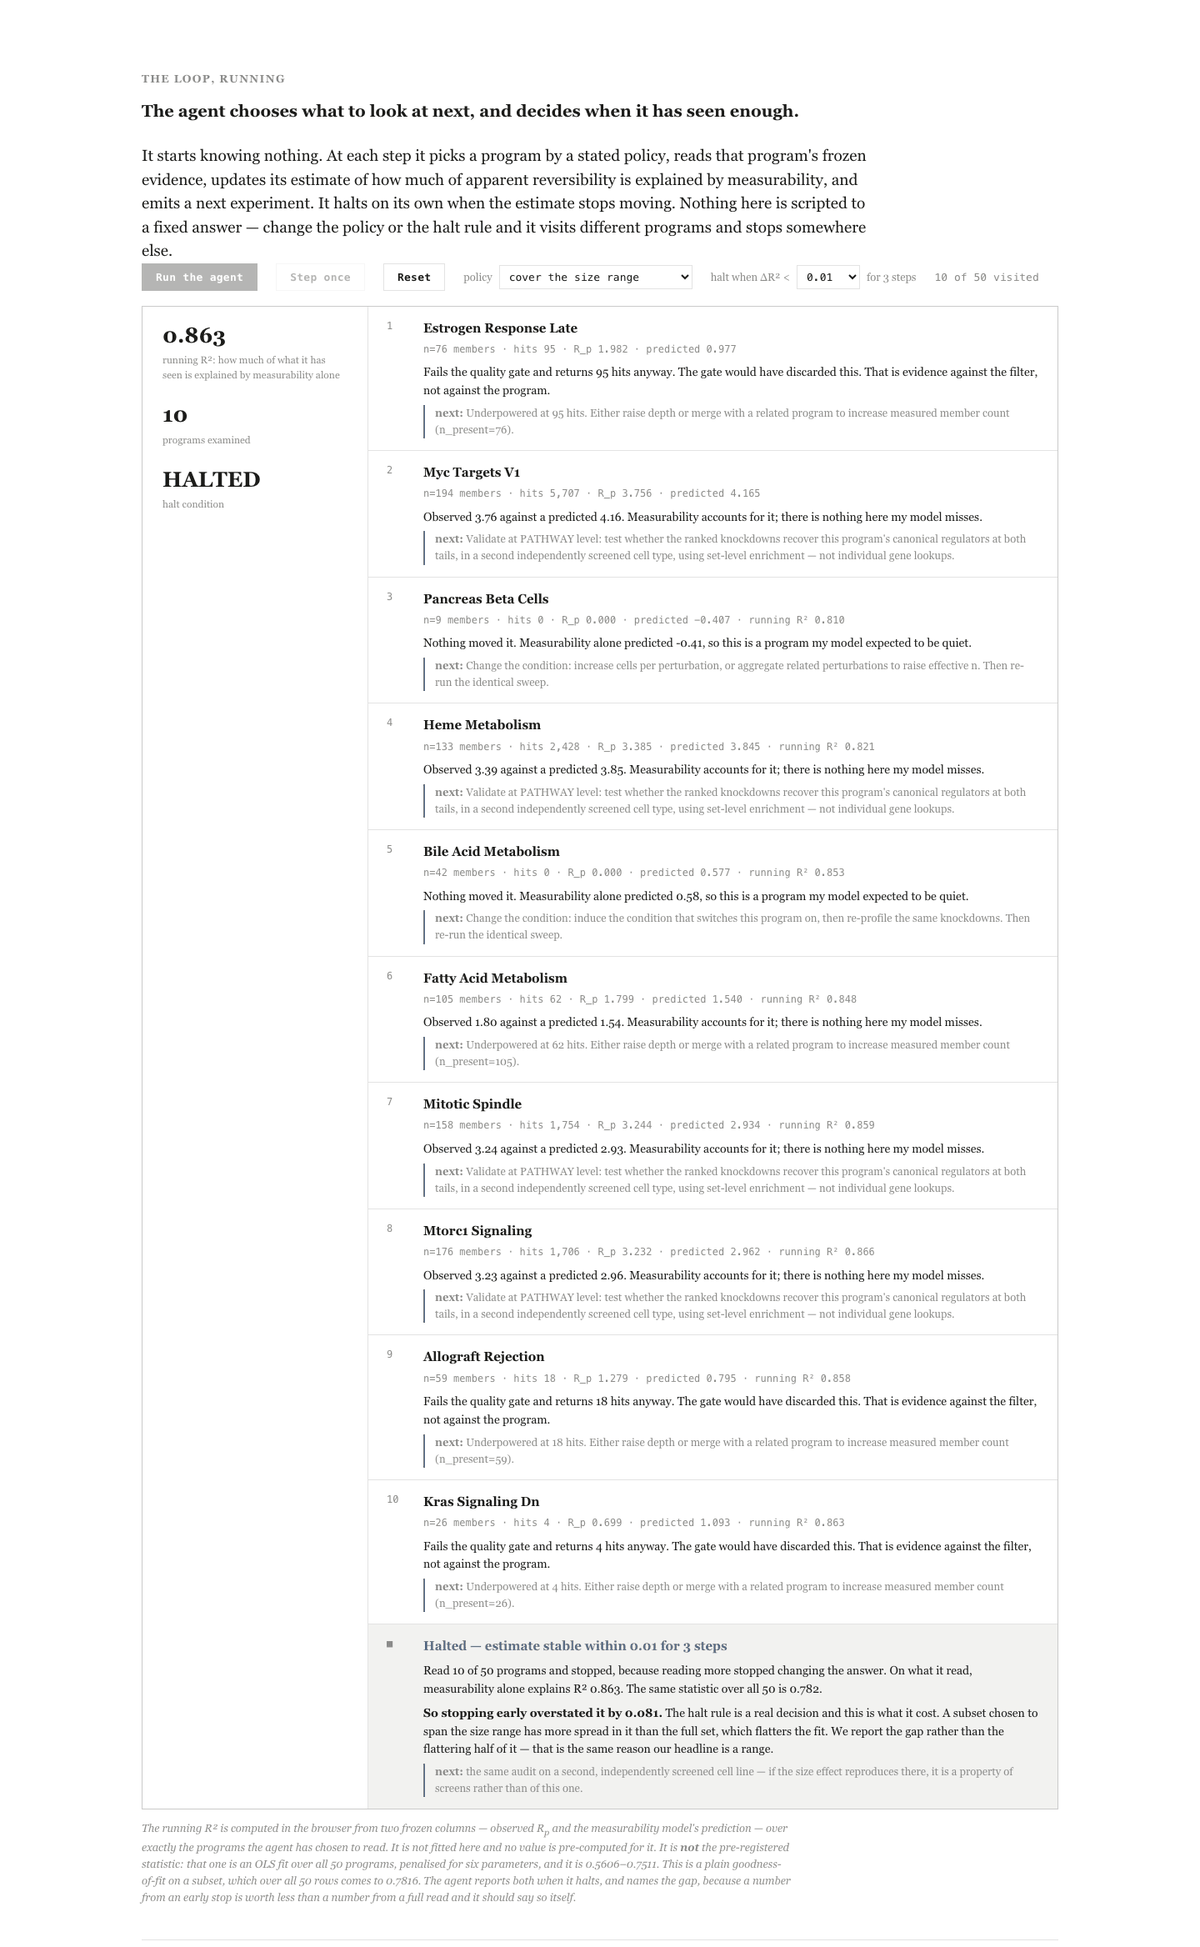
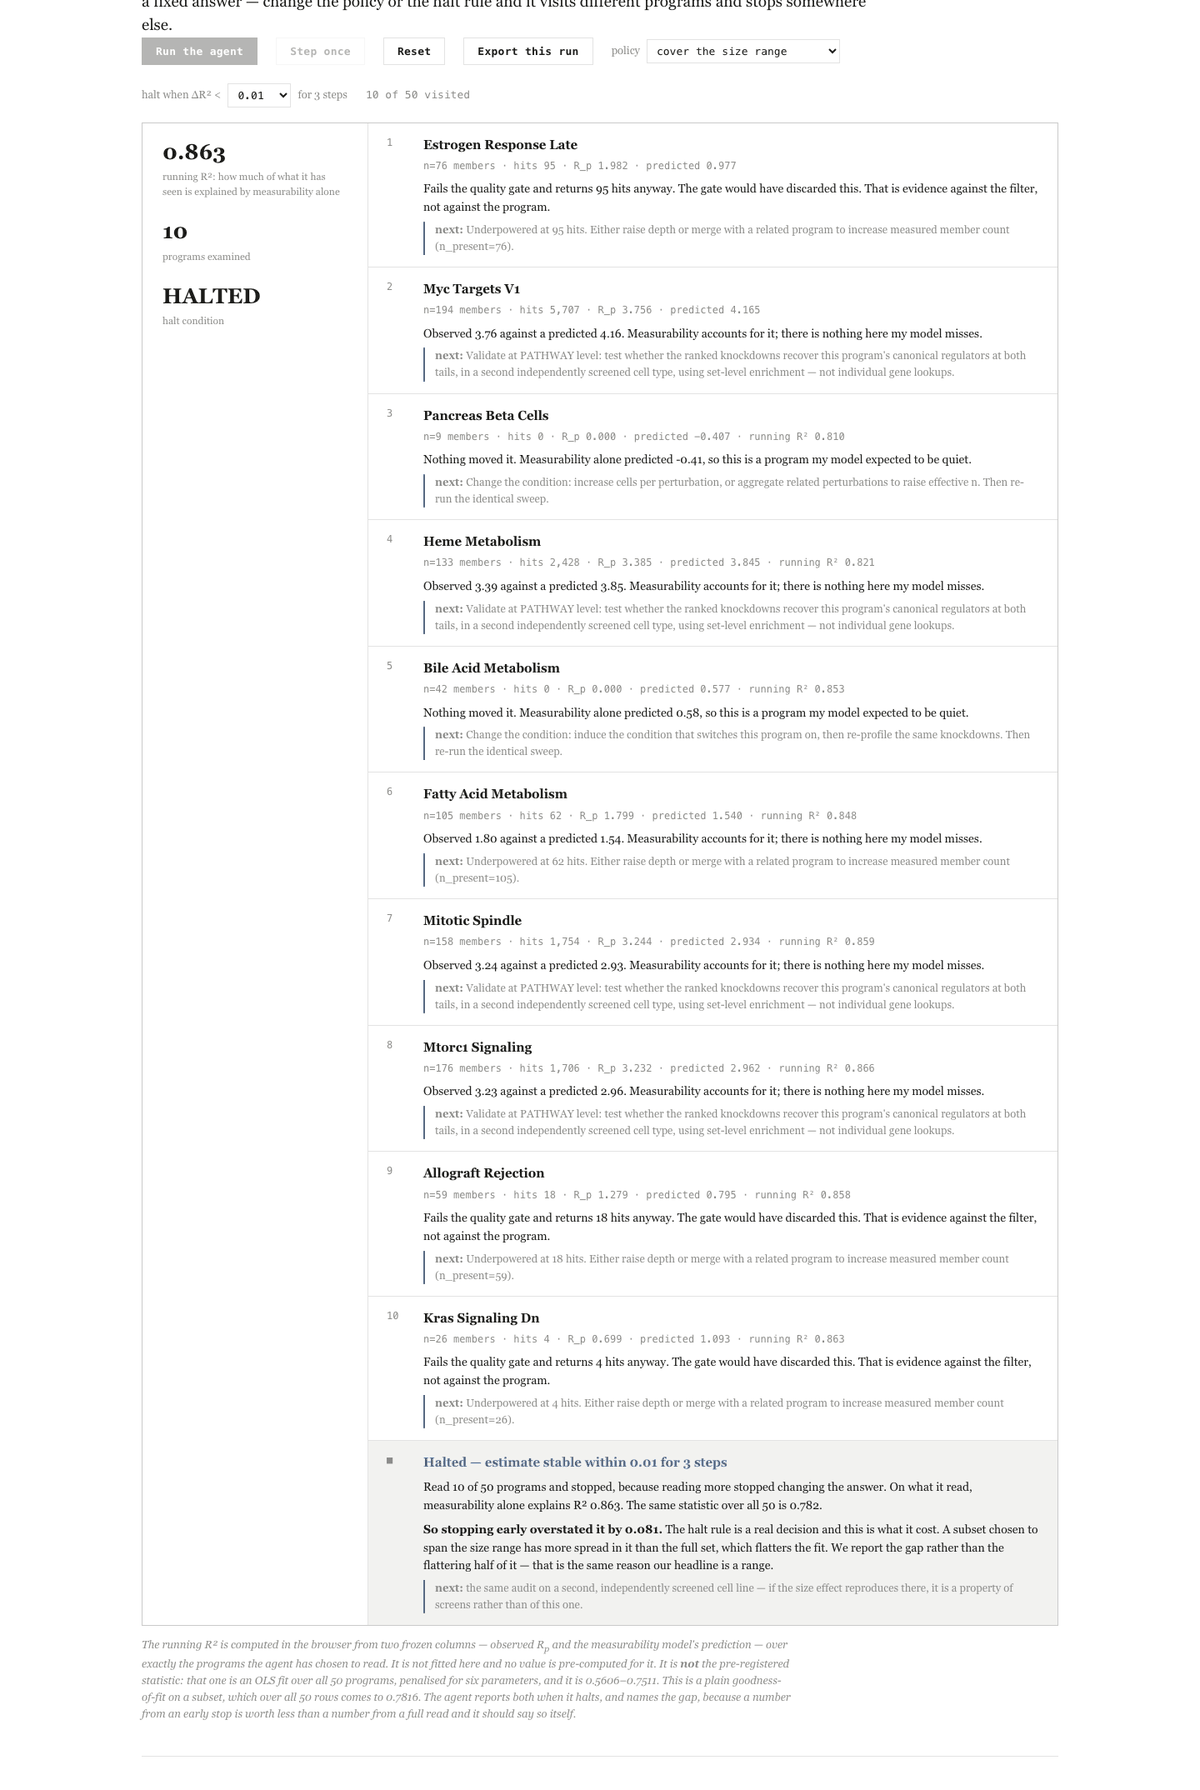
Export the agent run as a JSON artifact, and re-shoot all three screenshots
CRISPR-GPT (Nat Biomed Eng 2025) publishes twenty full agent transcripts as
supplementary data -- the transcript IS its audit trail, and that is the right
instinct. Ours was ephemeral: run the agent, close the tab, nothing left. There
is now an 'Export this run' button producing a JSON file with the policy, the
halt rule, every step's evidence and verdict and proposed next experiment, the
running R2 at each step, and the scope caveats.

It exports the honest numbers, not the flattering ones: running_r2_at_halt 0.8625
next to same_statistic_over_all_50 0.7816 and early_stop_gap +0.0809, with a note
saying a subset chosen to span the size range flatters the fit. It also carries
not_the_preregistered_statistic, so a downloaded artifact cannot be mistaken for
the headline figure. Verified end to end in headless Chrome by intercepting the
Blob: 10 steps, correct gap, full per-step trace.

Screenshots: table-detail.png was three hours stale and predated everything after
the interactive table; page-full and agent-loop predated the export button. All
three re-shot, cropped to their sections by measuring the live element rather
than guessing offsets. table-detail now shows the detail panel open on a
gate-fail-with-hits program with its generated next experiment, which is what
that image is supposed to demonstrate.

The four results/figures/*.png are untouched and correct -- they are regenerated
by make all and verified byte-identical on every clean-clone run.

Changed region(s): [[0.0925, 0.0, 0.8633, 0.9832]]

diff --git a/index.html b/index.html
@@ -257,6 +257,7 @@ different programs and stops somewhere else.</p>
   <button id="agRun" class="btn">Run the agent</button>
   <button id="agStep" class="btn ghost">Step once</button>
   <button id="agReset" class="btn ghost">Reset</button>
+  <button id="agSave" class="btn ghost" disabled>Export this run</button>
   <label>policy
     <select id="agPolicy">
       <option value="coverage">cover the size range</option>
@@ -480,6 +481,7 @@ function render(d,r2){
   $("agR2").textContent=r2===null?"—":r2.toFixed(3);
   $("agCount").textContent=AG.seen.length+" of "+DATA.length+" visited";
   $("agStatus").textContent=AG.halted?"HALTED":"running";
+  $("agSave").disabled=AG.seen.length===0;
 
   if(AG.halted){
     const f=document.createElement("div");
@@ -507,6 +509,7 @@ function render(d,r2){
       '</div></div>';
     log.appendChild(f); log.scrollTop=log.scrollHeight;
     $("agRun").disabled=$("agStep").disabled=true;
+    $("agSave").disabled=false;
   }
 }
 
@@ -527,9 +530,48 @@ $("agReset").onclick=()=>{
   $("agStatus").textContent="idle";
   $("agCount").textContent="0 of "+DATA.length+" visited";
   $("agRun").disabled=$("agStep").disabled=false;
+  $("agSave").disabled=true;
   $("agRun").textContent="Run the agent";
 };
 $("agPolicy").onchange=$("agTol").onchange=()=>$("agReset").click();
+$("agSave").onclick=()=>{
+  const fr=AG.r2hist.length?AG.r2hist[AG.r2hist.length-1]:null;
+  const trace={
+    what:"denali agent run. Reproduce by re-running the same policy and halt rule "+
+         "on index.html; the loop is deterministic given both.",
+    policy:$("agPolicy").value,
+    halt_rule:"delta running R2 < "+$("agTol").value+" for 3 consecutive steps",
+    halted:AG.halted, halt_reason:AG.reason,
+    programs_read:AG.seen.length, programs_available:DATA.length,
+    running_r2_at_halt:fr,
+    same_statistic_over_all_50:ALL50,
+    early_stop_gap:fr===null?null:+(fr-ALL50).toFixed(4),
+    gap_note:"A subset chosen to span the size range has more spread than the "+
+             "full set, which flatters the fit. Reported, not hidden.",
+    not_the_preregistered_statistic:
+      "This is a plain goodness-of-fit on a subset. The pre-registered figure is "+
+      "an adjusted OLS fit over all 50 programs, 0.5606-0.7511.",
+    steps:AG.seen.map((d,i)=>({
+      order:i+1, program:d.program, n_present:d.n_present,
+      n_hits_q05:d.n_hits_q05, R_p:d.R_p,
+      predicted_from_measurability:d.R_p_predicted_from_measurability,
+      residual:d.R_p_residual_after_measurability,
+      passes_measurability_gate:d.passes_measurability_gate,
+      running_r2:AG.r2hist[i]===undefined?null:+AG.r2hist[i].toFixed(4),
+      verdict:verdict(d)[0],
+      proposed_next_experiment:(d.proposal||{}).next_experiment||null
+    })),
+    scope:"Pathway level only. Guide-pair concordance is -0.019, so no "+
+          "gene-level claim is made and no novel gene is named. These are "+
+          "proposals, reported and not endorsed: the predictor behind them "+
+          "failed its own held-out evaluation at 0.4375."
+  };
+  const blob=new Blob([JSON.stringify(trace,null,2)],{type:"application/json"});
+  const a=document.createElement("a");
+  a.href=URL.createObjectURL(blob);
+  a.download="denali-agent-run-"+$("agPolicy").value+".json";
+  a.click(); URL.revokeObjectURL(a.href);
+};
 </script>
 
 <figure>

diff --git a/src/build_page.py b/src/build_page.py
@@ -546,6 +546,7 @@ different programs and stops somewhere else.</p>
   <button id="agRun" class="btn">Run the agent</button>
   <button id="agStep" class="btn ghost">Step once</button>
   <button id="agReset" class="btn ghost">Reset</button>
+  <button id="agSave" class="btn ghost" disabled>Export this run</button>
   <label>policy
     <select id="agPolicy">
       <option value="coverage">cover the size range</option>
@@ -769,6 +770,7 @@ function render(d,r2){{
   $("agR2").textContent=r2===null?"—":r2.toFixed(3);
   $("agCount").textContent=AG.seen.length+" of "+DATA.length+" visited";
   $("agStatus").textContent=AG.halted?"HALTED":"running";
+  $("agSave").disabled=AG.seen.length===0;
 
   if(AG.halted){{
     const f=document.createElement("div");
@@ -796,6 +798,7 @@ function render(d,r2){{
       '</div></div>';
     log.appendChild(f); log.scrollTop=log.scrollHeight;
     $("agRun").disabled=$("agStep").disabled=true;
+    $("agSave").disabled=false;
   }}
 }}
 
@@ -816,9 +819,48 @@ $("agReset").onclick=()=>{{
   $("agStatus").textContent="idle";
   $("agCount").textContent="0 of "+DATA.length+" visited";
   $("agRun").disabled=$("agStep").disabled=false;
+  $("agSave").disabled=true;
   $("agRun").textContent="Run the agent";
 }};
 $("agPolicy").onchange=$("agTol").onchange=()=>$("agReset").click();
+$("agSave").onclick=()=>{{
+  const fr=AG.r2hist.length?AG.r2hist[AG.r2hist.length-1]:null;
+  const trace={{
+    what:"denali agent run. Reproduce by re-running the same policy and halt rule "+
+         "on index.html; the loop is deterministic given both.",
+    policy:$("agPolicy").value,
+    halt_rule:"delta running R2 < "+$("agTol").value+" for 3 consecutive steps",
+    halted:AG.halted, halt_reason:AG.reason,
+    programs_read:AG.seen.length, programs_available:DATA.length,
+    running_r2_at_halt:fr,
+    same_statistic_over_all_50:ALL50,
+    early_stop_gap:fr===null?null:+(fr-ALL50).toFixed(4),
+    gap_note:"A subset chosen to span the size range has more spread than the "+
+             "full set, which flatters the fit. Reported, not hidden.",
+    not_the_preregistered_statistic:
+      "This is a plain goodness-of-fit on a subset. The pre-registered figure is "+
+      "an adjusted OLS fit over all 50 programs, {R_LO}-{R_HI}.",
+    steps:AG.seen.map((d,i)=>({{
+      order:i+1, program:d.program, n_present:d.n_present,
+      n_hits_q05:d.n_hits_q05, R_p:d.R_p,
+      predicted_from_measurability:d.R_p_predicted_from_measurability,
+      residual:d.R_p_residual_after_measurability,
+      passes_measurability_gate:d.passes_measurability_gate,
+      running_r2:AG.r2hist[i]===undefined?null:+AG.r2hist[i].toFixed(4),
+      verdict:verdict(d)[0],
+      proposed_next_experiment:(d.proposal||{{}}).next_experiment||null
+    }})),
+    scope:"Pathway level only. Guide-pair concordance is {CONCORD}, so no "+
+          "gene-level claim is made and no novel gene is named. These are "+
+          "proposals, reported and not endorsed: the predictor behind them "+
+          "failed its own held-out evaluation at {BAL}."
+  }};
+  const blob=new Blob([JSON.stringify(trace,null,2)],{{type:"application/json"}});
+  const a=document.createElement("a");
+  a.href=URL.createObjectURL(blob);
+  a.download="denali-agent-run-"+$("agPolicy").value+".json";
+  a.click(); URL.revokeObjectURL(a.href);
+}};
 </script>
 
 {figure("fig2_gate_failure.png")}
